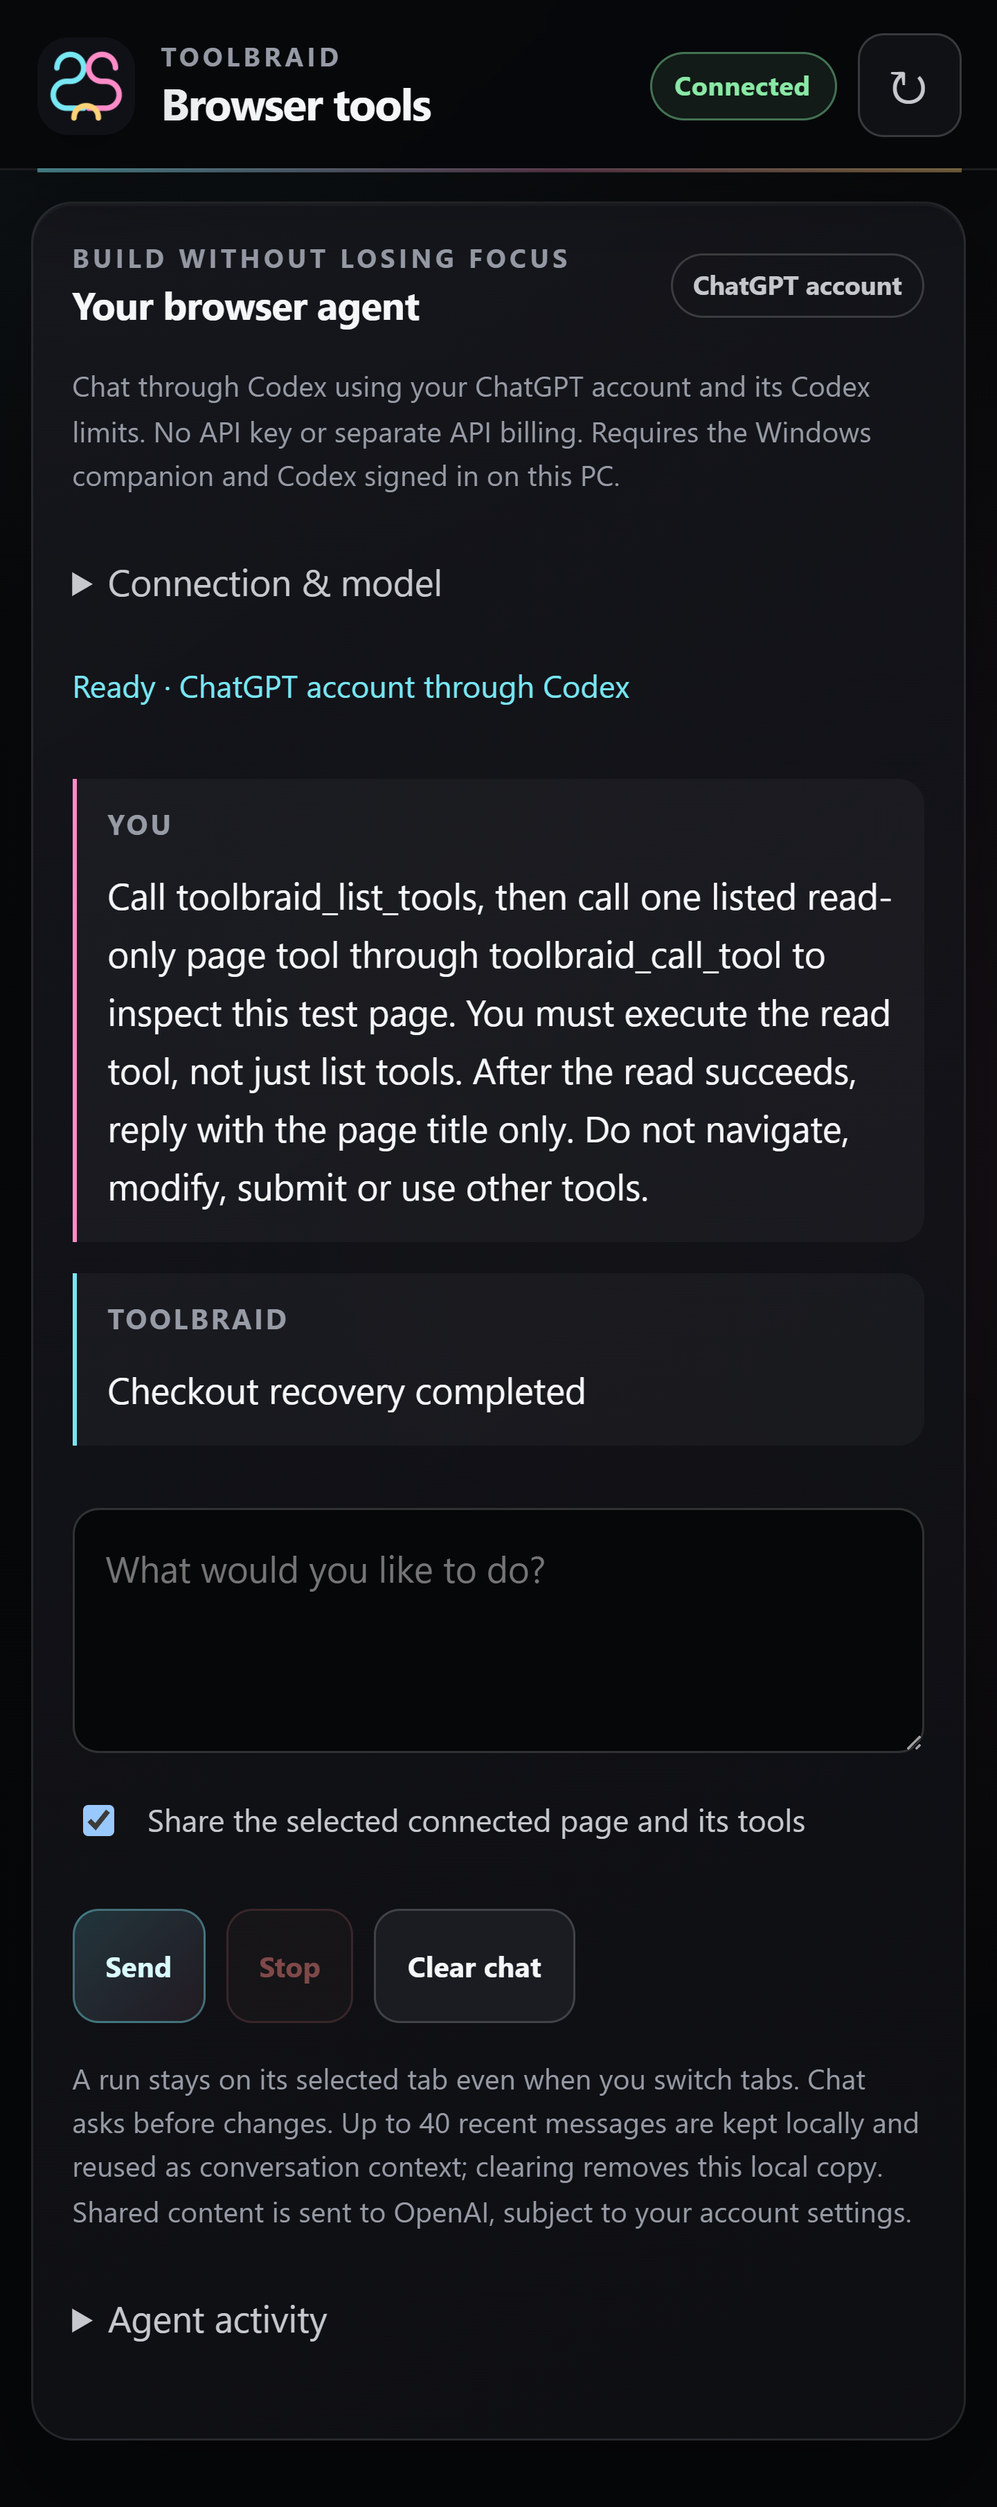
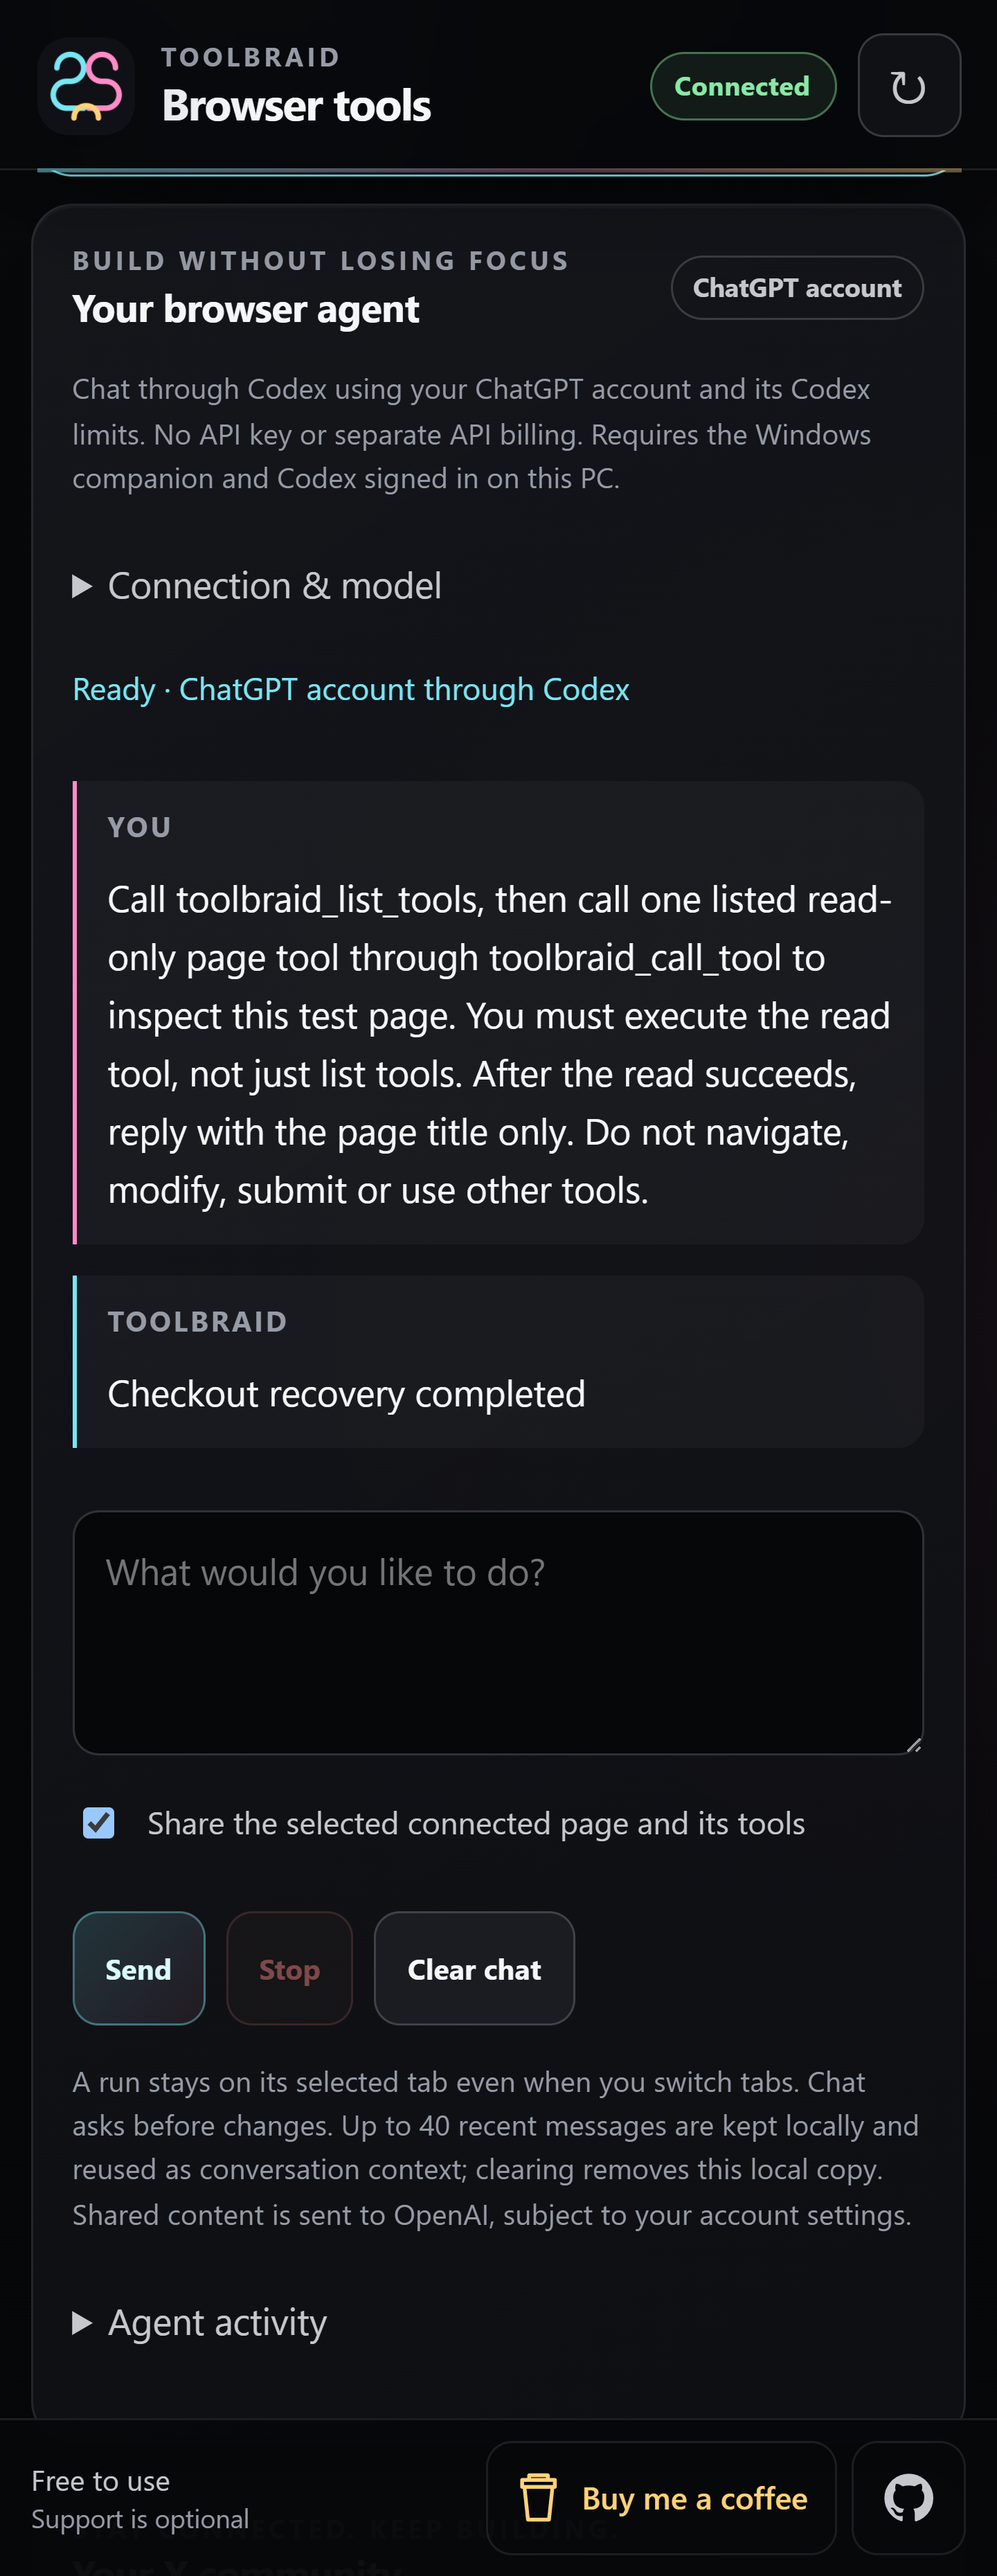
docs: polish 0.3.1 release presentation and mobile setup
Synchronize published checksums, record Edge review status, distinguish the Store submission ZIP, replace the wide AI setup table, and refresh paired HD captures with the optional support footer. Application packages and Microsoft submissions are unchanged.

diff --git a/README.md b/README.md
@@ -10,7 +10,7 @@
   <a href="LICENSE"><img src="https://img.shields.io/badge/license-Apache_2.0-77e7f4" alt="Apache License 2.0"></a>
   <a href="INSTALL.md"><img src="https://img.shields.io/badge/platform-Windows_x64-303743" alt="Windows x64"></a>
   <a href="#browser-support"><img src="https://img.shields.io/badge/Chrome-manual_install-77e7f4" alt="Chrome manual installation"></a>
-  <a href="#browser-support"><img src="https://img.shields.io/badge/Edge-store_pending-ffd278" alt="Edge store publication pending"></a>
+  <a href="#browser-support"><img src="https://img.shields.io/badge/Edge-in_review-ffd278" alt="Edge Add-ons submission in review; not yet published"></a>
 </p>
 
 <p align="center">
@@ -69,21 +69,21 @@ Actual model responses, a live website and public X conversation, a reply draft,
 
 ## See the interface
 
-High-resolution captures of the public 0.3.0 interface, rendered at **125% zoom and 3× pixel density (1440 pixels wide)** with offline test data. Select an image to view it at full resolution.
+High-resolution captures of the public **0.3.1 interface**, including the optional **Buy me a coffee** and **GitHub** footer. Rendered at **125% zoom and 3× pixel density (1440 pixels wide)** with offline preview data. On a phone, select either image to read it at full resolution.
 
 <table>
   <tr><th width="50%">Agent chat</th><th width="50%">X community</th></tr>
   <tr>
-    <td width="50%" valign="top"><a href="assets/chat-subscription-hd.png"><img src="assets/chat-subscription-hd.png" width="480" alt="The released chat interface with the recorded read-only test exchange, rendered at high resolution."></a></td>
-    <td width="50%" valign="top"><a href="assets/x-direct-control-hd.png"><img src="assets/x-direct-control-hd.png" width="480" alt="The released X community panel and two action controls, rendered with offline test data at high resolution."></a></td>
+    <td width="50%" valign="top"><a href="assets/chat-subscription-hd.png"><img src="assets/chat-subscription-hd.png" width="480" alt="ToolBraid 0.3.1 chat preview with the recorded read-only exchange and optional support footer."></a></td>
+    <td width="50%" valign="top"><a href="assets/x-direct-control-hd.png"><img src="assets/x-direct-control-hd.png" width="480" alt="ToolBraid 0.3.1 X community and native WebMCP controls with the optional support footer; offline preview."></a></td>
   </tr>
   <tr>
-    <td valign="top">Optional subscription-backed chat beside your work.<br><a href="assets/chat-subscription-hd.png">View full-resolution chat ↗</a></td>
-    <td valign="top">Community catch-ups and browser action controls.<br><a href="assets/x-direct-control-hd.png">View full-resolution X panel ↗</a></td>
+    <td valign="top">Optional chat beside your work.<br><a href="assets/chat-subscription-hd.png">Enlarge chat ↗</a></td>
+    <td valign="top">Community and site tools.<br><a href="assets/x-direct-control-hd.png">Enlarge X panel ↗</a></td>
   </tr>
 </table>
 
-The chat repeats the recorded subscription-backed read-only test; this re-render is **not a new live account check**. [Original Edge test capture](assets/chat-subscription.png). The X panel uses **offline test data; no live X actions were performed**.
+The chat preview replays the previously recorded subscription-backed read-only exchange; it is **not a new live account check**. [Original Edge test capture](assets/chat-subscription.png). The community view uses **offline preview data; no live X actions were performed**. The packaged interface and controls are unchanged by these captures.
 
 The colorful banner is the original editorial artwork from the ToolBraid X article.
 
@@ -98,11 +98,25 @@ The [installation guide](INSTALL.md) covers exact setup, [connection troubleshoo
 
 ## Choose your AI
 
-| Route | Where you chat and choose a model | Account / setup | Status in 0.3.1 |
-| --- | --- | --- | --- |
-| **Optional ChatGPT chat** | ToolBraid side panel → **Connection & model** | Your own ChatGPT account with Codex access; current Codex installed on this PC. No API key. [Step-by-step setup](INSTALL.md#option-a-chatgpt-in-the-toolbraid-panel) | Real subscription-backed read-only browser check passed in Edge. |
-| **Another subscription / existing MCP client** | In that client's own chat and model selector, not ToolBraid's chat | Sign in with that provider in its supported client, then add ToolBraid's local MCP server. [External setup, including Claude Code](INSTALL.md#option-b-an-external-mcp-client) | Manual configuration. Claude Code is a documented example, not an end-to-end-certified pairing. |
-| **A model running locally** | In a local MCP-capable client such as LM Studio | Download/load a tool-capable model that fits your machine; add ToolBraid in the client's MCP settings. No ChatGPT account needed for this route. [Local model setup](INSTALL.md#option-c-a-local-model-in-lm-studio) | External-client route. LM Studio instructions are documentation-based; model/client combinations have not been end-to-end certified. |
+Choose **one** route. The built-in chat is optional.
+
+### ChatGPT in the side panel
+
+Chat beside the page using **Connection & model**. Install current Codex on this PC and sign in with your own ChatGPT account with Codex access. **No API key**; your account's Codex limits apply.
+
+[Set up ChatGPT chat →](INSTALL.md#option-a-chatgpt-in-the-toolbraid-panel) · A real subscription-backed read-only browser check passed in Edge.
+
+### Your existing Codex session or another MCP client
+
+Keep the conversation and model selection **in your existing client**. Add ToolBraid's local MCP server there. For another provider, use its supported client and sign-in route; a subscription alone does not connect that provider to ToolBraid.
+
+[Set up an external client →](INSTALL.md#option-b-an-external-mcp-client) · Includes Codex and a Claude Code example. Claude Code pairing requires manual setup and has not been end-to-end certified.
+
+### A model running locally
+
+Use a tool-capable model in an MCP-capable client such as **LM Studio**. Load a model that fits your machine, then add ToolBraid in that client's MCP settings. **No ChatGPT account is needed** for this route.
+
+[Set up a local model →](INSTALL.md#option-c-a-local-model-in-lm-studio) · LM Studio instructions are documentation-based; model/client combinations have not been end-to-end certified.
 
 **There is no “connect any subscription” button, Ollama endpoint field or LM Studio model selector in the built-in chat.** Other providers and local models stay in their own client. A subscription does not automatically include API access or grant arbitrary third-party integrations; the provider's supported sign-in route and limits apply. [OpenAI explains subscription sign-in versus API billing](https://learn.chatgpt.com/docs/auth).
 
@@ -112,11 +126,10 @@ With a local model, inference can stay on your PC; browser requests, submitted a
 
 ### Which download do I need?
 
-| Release asset | Use it for |
-| --- | --- |
-| **`ToolBraid-0.3.1-windows-x64.zip`** | **A new installation.** Companion, bundled Node.js, installer and matching extension. |
-| `ToolBraid-0.3.1-extension.zip` | Extension only; a matching installed Windows companion is still required. |
-| `SHA256SUMS.txt` | Verify the downloaded ZIP bytes. |
+- **[Windows package — start here](https://github.com/Maharajahu/toolbraid-releases/releases/download/v0.3.1-rc.1/ToolBraid-0.3.1-windows-x64.zip):** companion, bundled Node.js, installer and matching extension for a new installation.
+- **[Extension only — manual installation](https://github.com/Maharajahu/toolbraid-releases/releases/download/v0.3.1-rc.1/ToolBraid-0.3.1-extension.zip):** for Chrome or unpacked Edge; requires the matching installed Windows companion.
+- **Edge submission package:** `ToolBraid-0.3.1-edge-extension.zip` is the keyless package prepared for **Edge Add-ons submission**, not the manual-install download. Loading it unpacked produces a different extension identity and may not connect to the companion. Use one of the downloads above until the Store listing is published.
+- **[SHA256SUMS.txt](https://github.com/Maharajahu/toolbraid-releases/releases/download/v0.3.1-rc.1/SHA256SUMS.txt):** verifies the three published ZIPs and the 4K demo. The [repository copy](SHA256SUMS.txt) contains the same checksums.
 
 Use the release's **Assets** section. GitHub's automatic **Source code** archives contain this documentation repository, **not the application installer**.
 
@@ -124,7 +137,7 @@ Use the release's **Assets** section. GitHub's automatic **Source code** archive
 
 | Browser or client | Current status |
 | --- | --- |
-| **Microsoft Edge** | Planned official store channel. Edge Add-ons is **not published yet**; the RC can be loaded unpacked. |
+| **Microsoft Edge** | Submitted to Edge Add-ons on **13 September 2026**; last confirmed status **In review**. Not yet published. Use the ordinary extension ZIP for unpacked installation. |
 | **Google Chrome** | Official ZIP downloads with manual installation and updates. No Chrome Web Store release is planned. |
 | **Codex / ChatGPT account** | Integrated streaming chat through official App Server; ChatGPT sign-in only. External MCP helper also included. |
 | **Other MCP clients** | Manual configuration required. Compatibility with every client is not established. |

diff --git a/RELEASE-NOTES.md b/RELEASE-NOTES.md
@@ -8,10 +8,19 @@ The extension now includes a compact footer with optional Buy Me a Coffee suppor
 
 - `ToolBraid-0.3.1-windows-x64.zip` — Windows x64 companion, bundled Node.js, installer and matching extension.
 - `ToolBraid-0.3.1-extension.zip` — matching extension only; requires the Windows companion.
+- `ToolBraid-0.3.1-edge-extension.zip` — **Edge Add-ons submission package, not for manual installation**. Use the ordinary extension ZIP above for Chrome or unpacked Edge.
 - `ToolBraid-Windows-real-demo-4K.mp4` — the real Windows walkthrough, without audio.
-- `SHA256SUMS.txt` — SHA-256 checksums for the two ZIPs and demo.
+- `SHA256SUMS.txt` — SHA-256 checksums for the three published ZIPs and demo; the repository copy matches the release asset.
 
-Use the release **Assets**, not GitHub's Source code archives. See the [installation and update guide](INSTALL.md). Existing 0.3.0 release assets are not replaced.
+Use the release **Assets**, not GitHub's Source code archives. See the [installation and update guide](https://github.com/Maharajahu/toolbraid-releases/blob/main/INSTALL.md). Existing 0.3.0 release assets are not replaced.
+
+## Presentation update — 13 September 2026
+
+- Synchronized the repository checksum file with the published 0.3.1 assets and clearly separated manual-install downloads from the Edge submission archive.
+- Updated the Edge status to **In review**, as confirmed after submission on 13 September 2026. Listing materials and privacy declarations have been submitted; store approval is still pending.
+- Replaced the wide AI-choice table with three mobile-friendly setup sections and kept direct links to each installation guide.
+- Refreshed the paired high-resolution previews from the packaged 0.3.1 UI, including the optional support footer. Preview data is offline; the recorded chat exchange is replayed, not a new live account test.
+- These are documentation and presentation changes only. Published ZIP/video assets, their checksums, runtime versions and Microsoft submissions are unchanged.
 
 ## What changed
 
@@ -25,7 +34,7 @@ Use the release **Assets**, not GitHub's Source code archives. See the [installa
 - Added **Check connection** to the Store companion: runtime/configuration checks, MCP initialize/ping and authenticated extension status, with a separate no-page state. Reports omit URLs, titles, tokens, paths and raw errors. No browser action or model request is sent; AI sign-in is not tested. This is not a new button in the ZIP edition.
 - Prepared a Store listing draft and reviewer packet covering capabilities, retention, disconnect-before-uninstall and certification gates. Added diagnostic and compiled Store-launcher tests: **16 passed**, plus isolated C# registration/ACL checks. These use a fixture extension and test-only configuration, not installed Store aliases or a live browser.
 - Added a separate `ToolBraid-0.3.1-edge-extension.zip` for Edge Add-ons after Microsoft's package validator rejected the Chrome unpacked manifest's `key`. The Edge artifact omits only that field; the Chrome archive retains its stable public key. The corrected Edge package passed Microsoft's upload validation on 13 September 2026. Upload validation is not store certification or publication.
-- Reserved the Windows application identity and obtained the actual Edge Add-ons CRX ID for the MSIX browser allowlist. Windows Companion is in certification. Edge Add-ons remains a separate, unpublished submission.
+- Reserved the Windows application identity and obtained the actual Edge Add-ons CRX ID for the MSIX browser allowlist. Windows Companion is in certification. The separate Edge Add-ons submission was completed on 13 September 2026 and Partner Center confirmed **In review**; neither product is published yet.
 - Corrected the Windows package after Microsoft rejected hidden helper applications. One visible companion now declares one execution-alias extension with both aliases pointing to the bundled connection launcher; the MCP configuration selects `--mcp`. Manifest checks and all 16 Store diagnostic/launcher tests pass. This avoids claiming permission to publish a headless application; restricted capabilities still need Microsoft's approval.
 
 ## Validation and remaining gates
@@ -37,7 +46,7 @@ The recorded Windows demo supplies real website/X read and reply-draft evidence.
 - Clean-install native site-access and optional-debugger grant/decline dialogs still need manual testing.
 - Claude Code is installed but signed out on the validation machine; LM Studio is not installed. Their documented setup paths are not end-to-end certified.
 - The downloadable Windows launcher is **unsigned**. The selected free signing route is Microsoft Store distribution of an MSIX after certification; that does not sign the independent ZIP/EXE. No self-signed certificate is installed or treated as publicly trusted. Checksums are not a publisher signature. Do not disable security protections.
-- Final Edge Add-ons privacy declarations, listing material and store review remain outstanding. The publisher account and actual store extension ID are now available. Chrome uses manual ZIP installation.
+- Edge Add-ons privacy declarations and listing materials have been submitted. Microsoft's **Edge review** and **Windows Store certification** are still pending. After approval, installation from each store and the official download links still need verification. Chrome uses manual ZIP installation.
 - The privacy policy documents optional external support links, local retention and provider data transfers. No model, subscription or API credit is included.
 
 Website: [toolbraid.pages.dev](https://toolbraid.pages.dev/). Support: [Feedback form](https://toolbraid.pages.dev/feedback/). Do not send secrets, authentication files or private page content.

diff --git a/INSTALL.md b/INSTALL.md
@@ -1,6 +1,6 @@
 # Install ToolBraid on Windows
 
-These instructions cover the **0.3.1 release candidate**. Microsoft Edge Add-ons is the planned extension store channel; its product identity exists but the extension is not published yet. Chrome uses manual unpacked installation.
+These instructions cover the **0.3.1 release candidate**. The Edge Add-ons submission was completed on **13 September 2026**, with status **In review** confirmed in Partner Center. It is not approved or published yet. Chrome uses manual unpacked installation.
 
 <a id="microsoft-store-companion--in-preparation"></a>
 
@@ -57,9 +57,9 @@ This is the [Chrome-documented unpacked installation flow](https://developer.chr
 
 ### Microsoft Edge — store release pending
 
-The official Edge Add-ons link will be added after publication. Until then, early testers can open `edge://extensions`, enable Developer mode and load the same `extension` folder unpacked.
+The Edge extension is **in review**, separately from the Windows companion's Microsoft Store certification. The official Edge Add-ons link will be added after publication. Until then, early testers can open `edge://extensions`, enable Developer mode and load the same `extension` folder unpacked.
 
-The Chrome/unpacked extension ID is `gpjhdlbjfhlaeakphfognpijgmclecmn`. The assigned Edge Add-ons ID is `ailfkkdmjppafngmkobpiogoamidipcl`; it is included in the submitted Store companion's allowlist. Use the ordinary extension folder for unpacked testing, not the keyless Edge submission ZIP. Do not assume an old ZIP companion registration accepts the Store extension ID.
+The Chrome/unpacked extension ID is `gpjhdlbjfhlaeakphfognpijgmclecmn`. The assigned Edge Add-ons ID is `ailfkkdmjppafngmkobpiogoamidipcl`; it is included in the submitted Store companion's allowlist. Use the ordinary extension folder for unpacked testing, not `ToolBraid-0.3.1-edge-extension.zip`: that keyless archive is for **Store submission only** and can receive a different ID when loaded unpacked. Do not assume an old ZIP companion registration accepts the Store extension ID.
 
 ## 4. Connect your AI client
 
